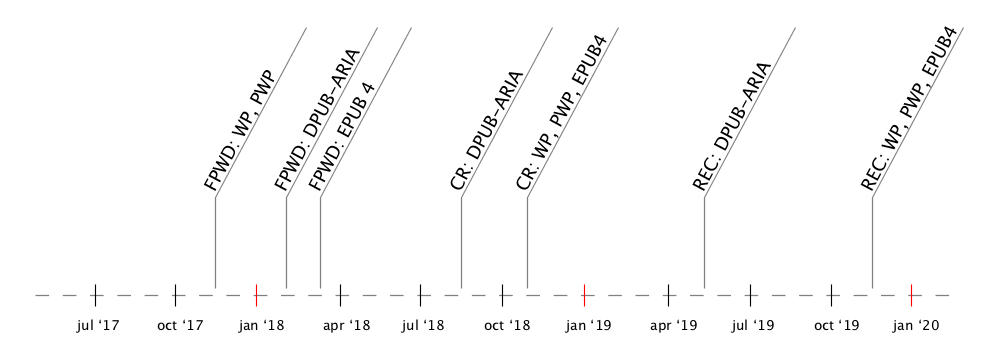
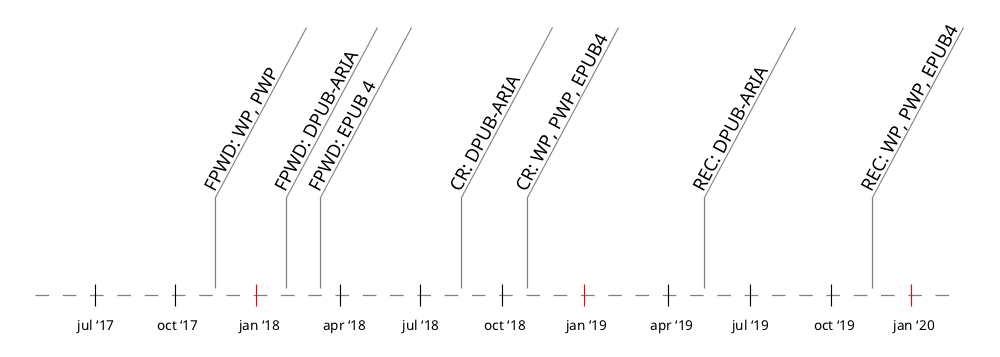
Set explicit font reference to the figure and added an aria-describedby attribute

diff --git a/index.html b/index.html
@@ -426,7 +426,7 @@
 						Although the group expects all of its active deliverables to progress during this charter period, the charter does not include detailed milestone data for each specification because such data is speculative and easily becomes out of date.
 						The Working Group does expect the following to occur:
                     </p>
-                    <ul>
+                    <ul id="milestone_list">
 						<li>Face-to-face meeting, June 22-23, 2017, New York City</li>
 						<li>WP and PWP:
 							<ul>
@@ -458,7 +458,7 @@
 						</li>
                     </ul>
 
-					<figure>
+					<figure aria-describedby="#milestone_list">
 						<img src="figures/timeline.svg" style="width:90%" alt="The timeline of the deliverables">
 						<figcaption>Major milestones (figure also available as <a href="figures/timeline.png">in PNG</a>)</figcaption>
 					</figure>
